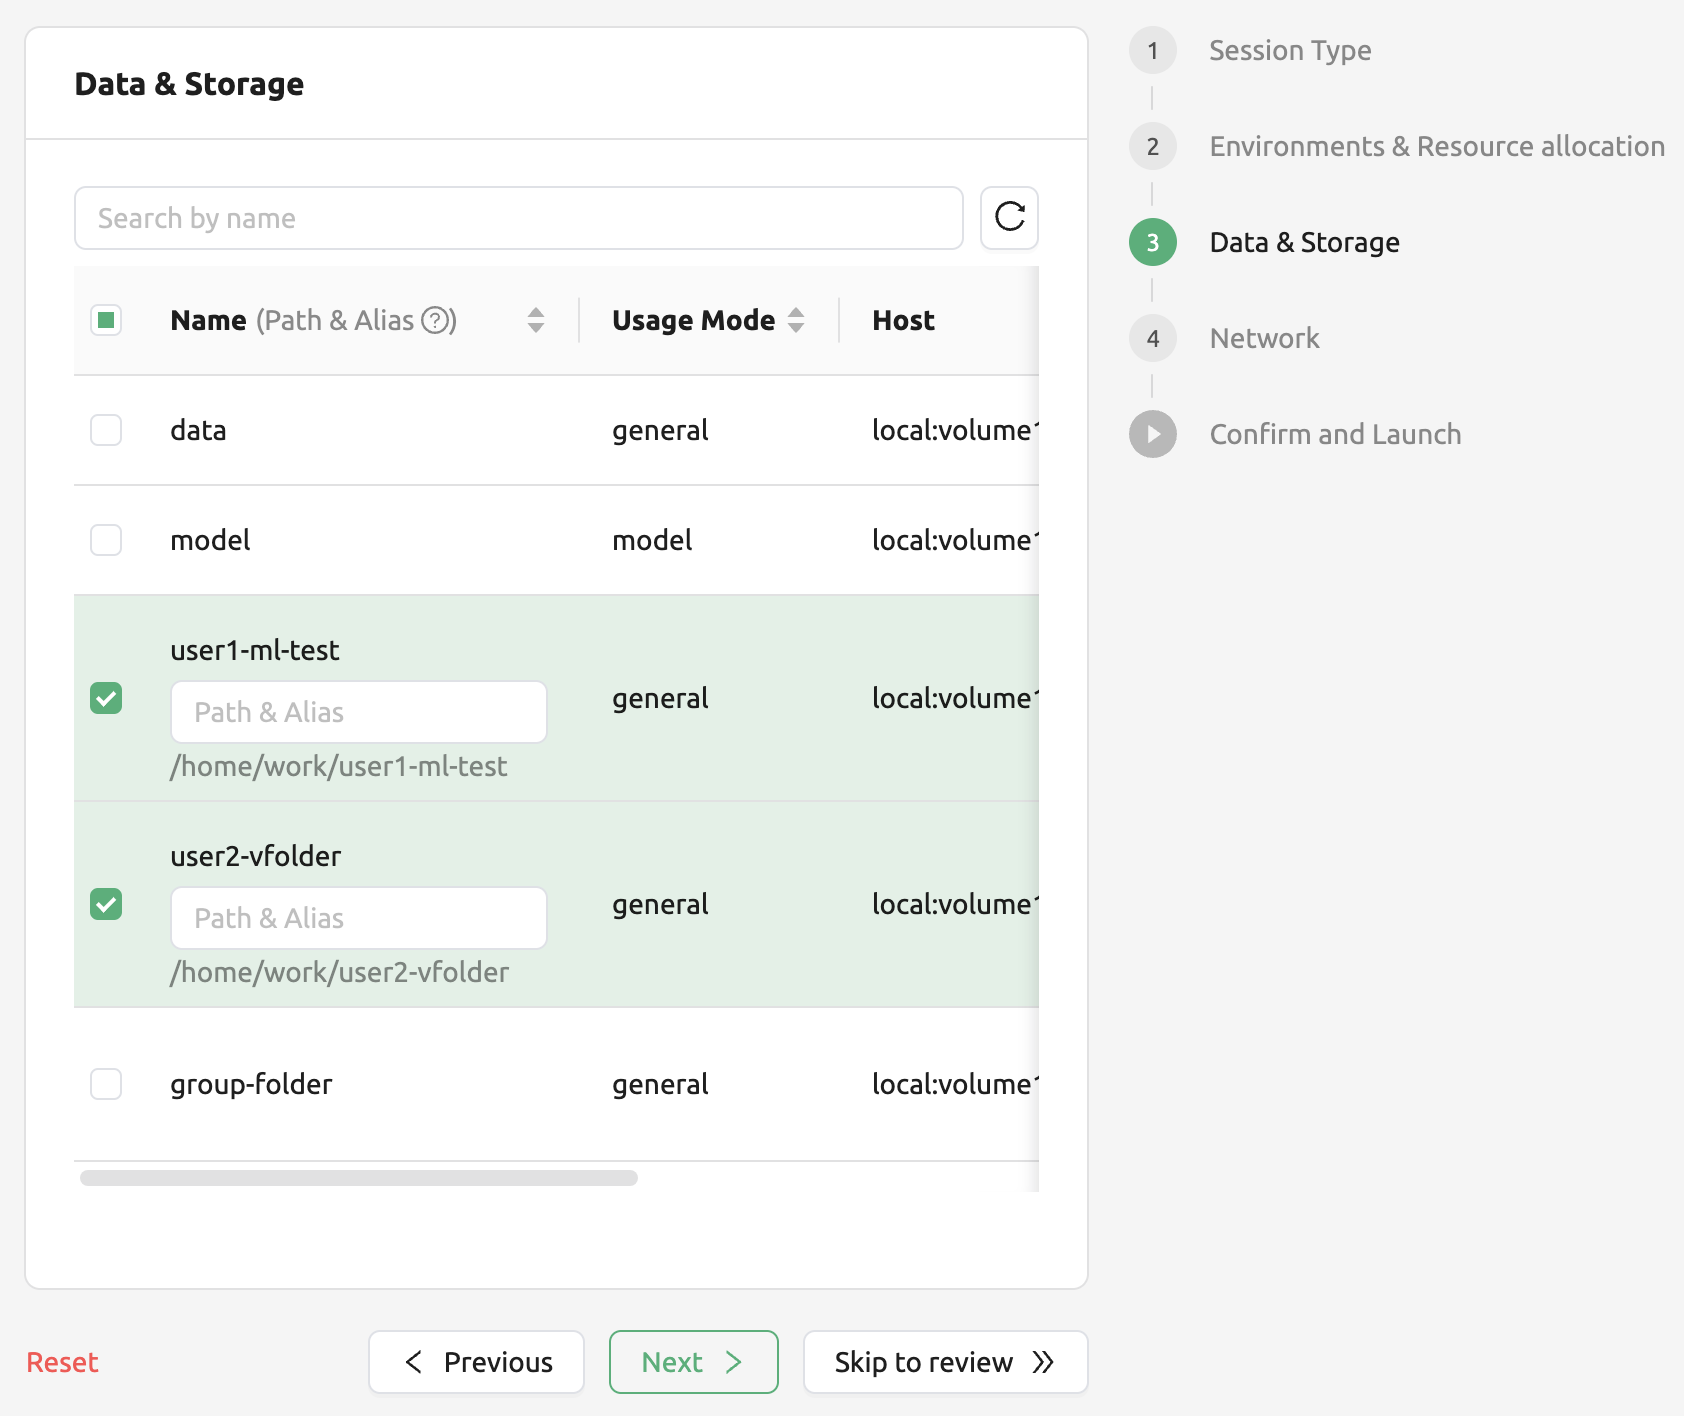
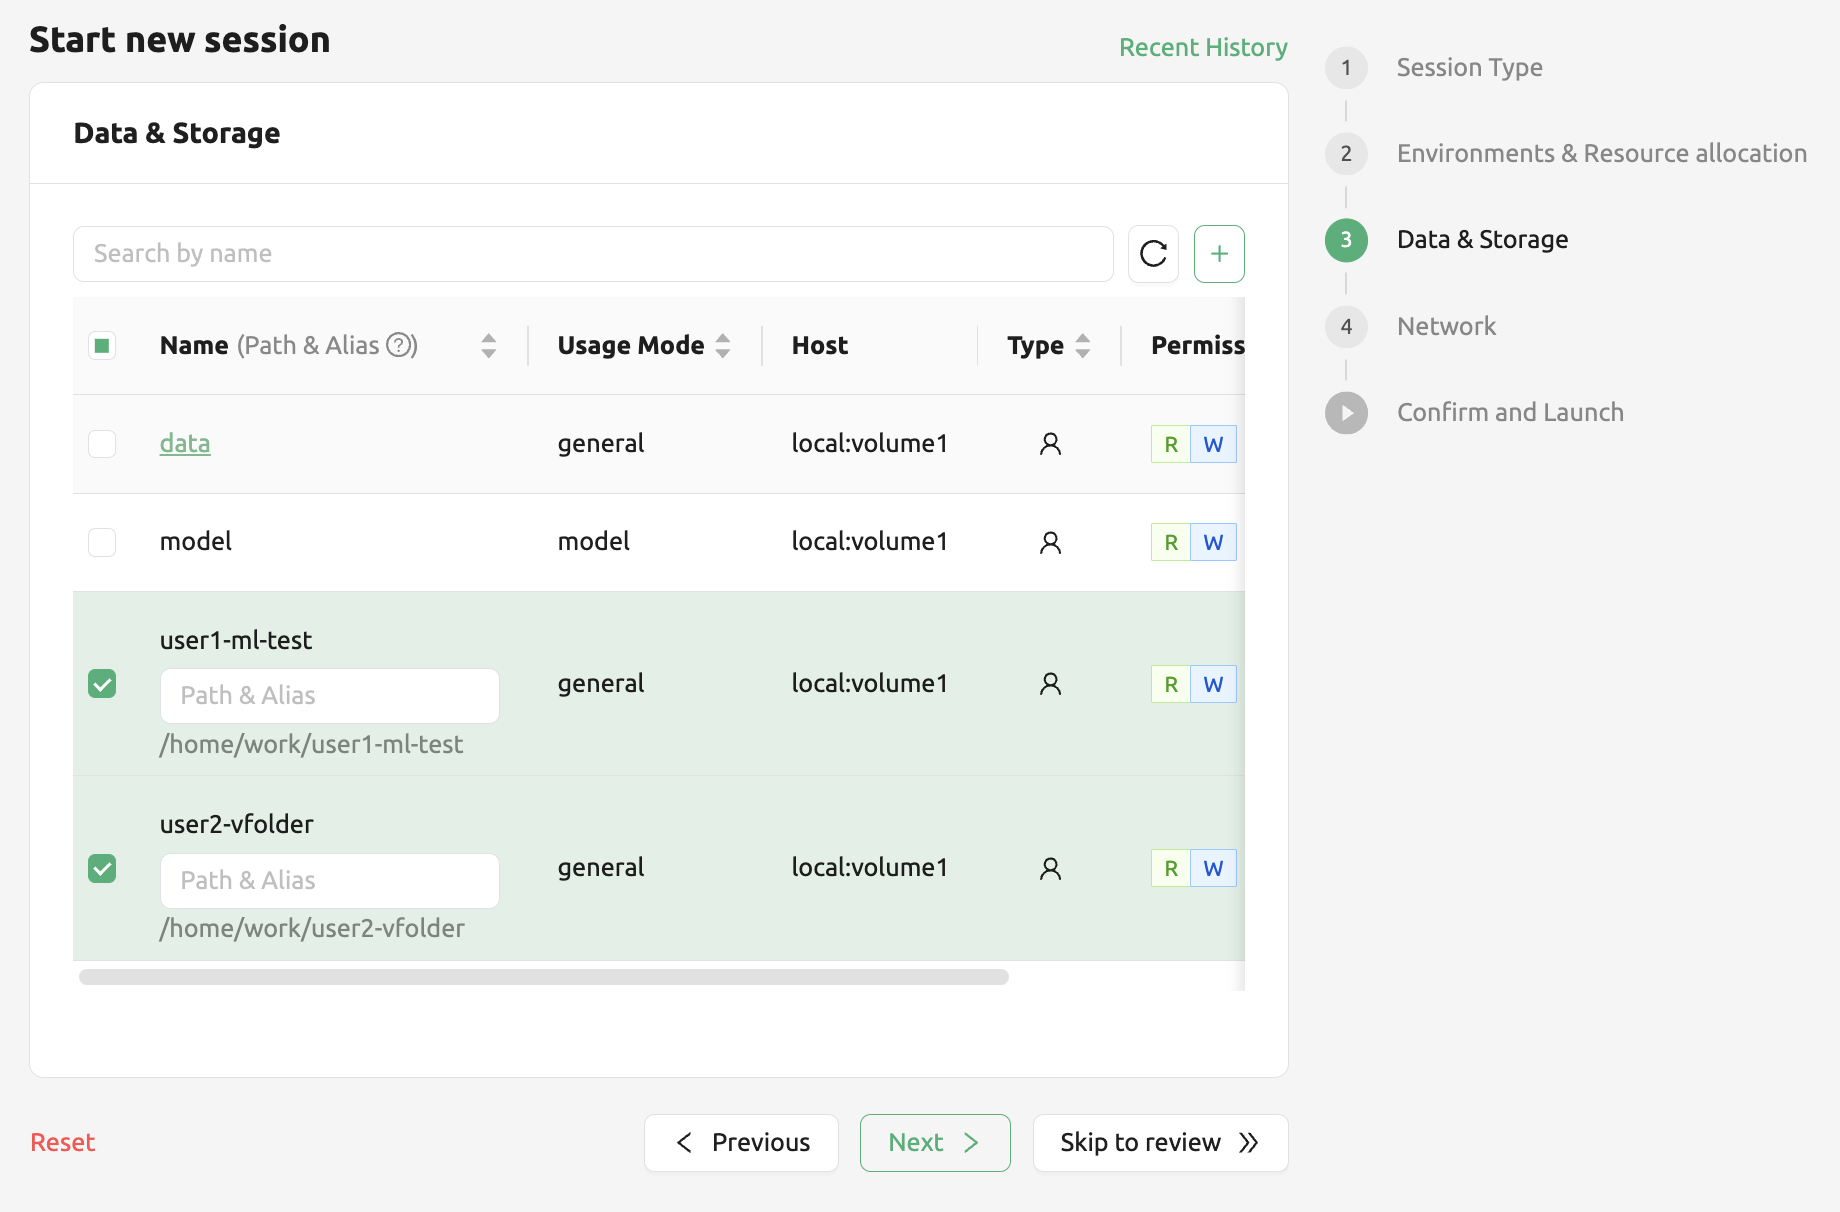
docs: use folder explorer and create a new folder in session launcher

diff --git a/docs/mount_vfolder/mount_vfolder.rst b/docs/mount_vfolder/mount_vfolder.rst
@@ -30,6 +30,14 @@ session.
    mount. For example, project folders used by other projects are not exposed in
    Folders to mount. The storage host for each folder is also displayed under
    the folder's name.
+.. note::
+   By clicking on a folder name, you can use ''Folder Explore''' to view the 
+   stored files or folders inside the folder or upload new files or folders.
+   For more information on how to use it, please refer :ref:`Explore Folder<explore_folder>` section.
+
+   Alternatively, you can create a new virtual folder by clicking the '+' button. 
+   For more information on how to create a new folder in session launcher page, 
+   please refer :ref:`Create storage folder<create_storage_folder>` section.
 
 Now, open the terminal by clicking the terminal icon in the created session. If
 you run ``ls`` command in the terminal, you can see that the ``user1-ml-test``

diff --git a/docs/vfolder/vfolder.rst b/docs/vfolder/vfolder.rst
@@ -96,6 +96,8 @@ follows.
 Explore folder
 --------------
 
+.. _explore_folder:
+
 You can click the folder button in the Control column to bring up a file explorer
 where you can view the contents of that folder.
 
